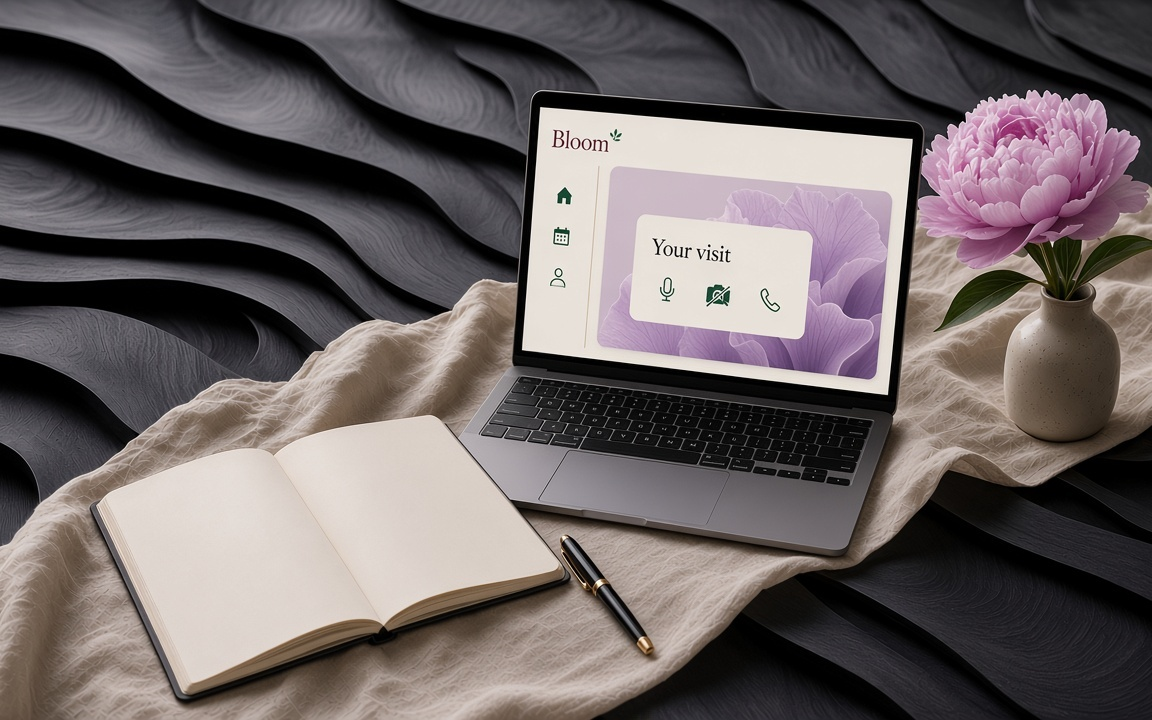
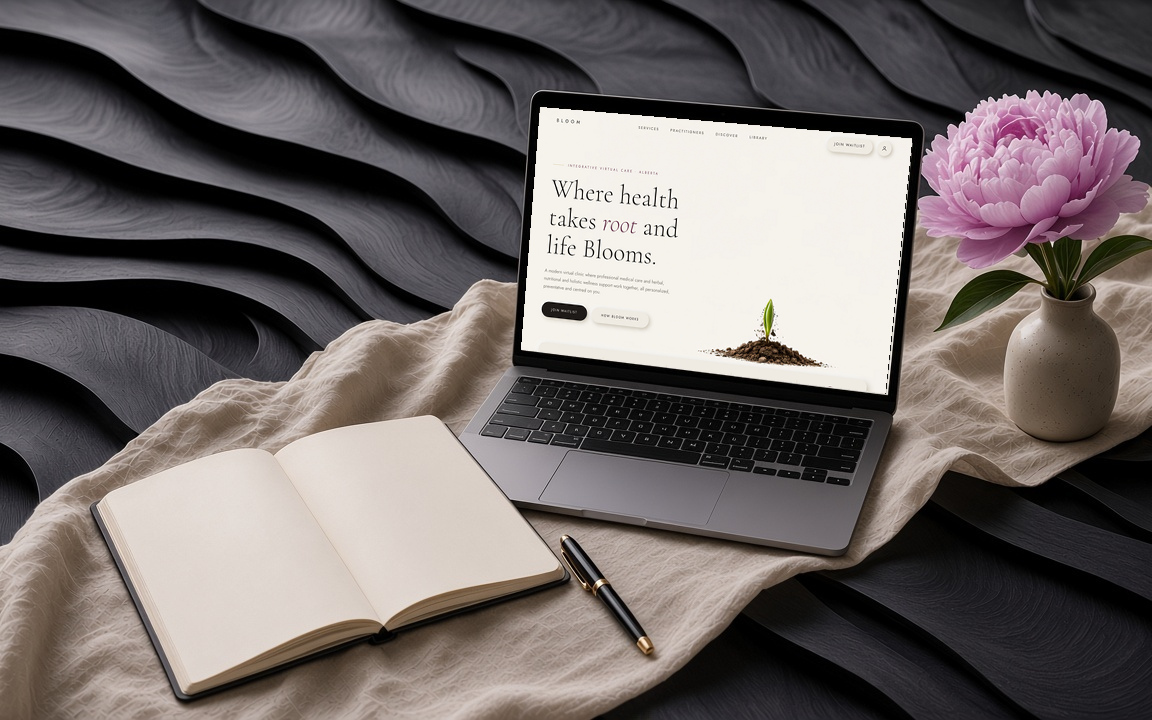
Replace the blood-work and first-visit pictures with the revised files.
The tubes are a little under half full. The laptop shows the Bloom homepage. Alt text matches those pictures.

Changed region(s): [[0.4688, 0.2139, 0.7812, 0.55], [0.4688, 0.1528, 0.5312, 0.2139], [0.7188, 0.1833, 0.75, 0.2139]]

diff --git a/index.html b/index.html
@@ -1319,8 +1319,8 @@ footer a:hover{color:var(--bone)}
     </div>
     <!-- Illustrative AI-generated imagery for the six Library articles, cropped from 16:9 to 16:10. Not a photograph of a patient, a practitioner, or a laboratory result. -->
 <div class="lib-grid">
-      <article class="neo res reveal"><div class="res-img" role="img" aria-label="An open blank notebook, a pen, and a laptop showing an illustrated Bloom visit screen, beside a pink flower in a vase" style="background-image:url('library/images/what-to-expect-at-your-first-visit.jpg')"></div><div class="res-top"><span class="pill pill-lilac">Bloom</span><span class="small">6 min read</span></div><h3><a href="/library/what-to-expect-at-your-first-visit.html">What to expect at your first visit</a></h3><p class="small">How an integrated visit works, from booking to your written plan.</p><a class="link" href="/library/what-to-expect-at-your-first-visit.html">Read</a></article>
-      <article class="neo res reveal"><div class="res-img" role="img" aria-label="Three collection tubes with a low level of dark red blood, lilac and burgundy caps, on ivory linen beside a pink flower and an amber bottle" style="background-image:url('library/images/understanding-your-blood-work.jpg')"></div><div class="res-top"><span class="pill pill-lilac">Guide</span><span class="small">7 min read</span></div><h3><a href="/library/understanding-your-blood-work.html">Understanding your blood work</a></h3><p class="small">What common lab markers measure, explained in plain language, plus questions to bring to your next visit. Your practitioner will always review your results with you.</p><a class="link" href="/library/understanding-your-blood-work.html">Read</a></article>
+      <article class="neo res reveal"><div class="res-img" role="img" aria-label="An open blank notebook, a pen, and a laptop displaying the Bloom homepage, beside a pink flower in a vase" style="background-image:url('library/images/what-to-expect-at-your-first-visit.jpg')"></div><div class="res-top"><span class="pill pill-lilac">Bloom</span><span class="small">6 min read</span></div><h3><a href="/library/what-to-expect-at-your-first-visit.html">What to expect at your first visit</a></h3><p class="small">How an integrated visit works, from booking to your written plan.</p><a class="link" href="/library/what-to-expect-at-your-first-visit.html">Read</a></article>
+      <article class="neo res reveal"><div class="res-img" role="img" aria-label="Three collection tubes a little under half full of dark red blood, with lilac and burgundy caps, on ivory linen beside a pink flower and an amber bottle" style="background-image:url('library/images/understanding-your-blood-work.jpg')"></div><div class="res-top"><span class="pill pill-lilac">Guide</span><span class="small">7 min read</span></div><h3><a href="/library/understanding-your-blood-work.html">Understanding your blood work</a></h3><p class="small">What common lab markers measure, explained in plain language, plus questions to bring to your next visit. Your practitioner will always review your results with you.</p><a class="link" href="/library/understanding-your-blood-work.html">Read</a></article>
       <article class="neo res reveal"><div class="res-img" role="img" aria-label="A ceramic cup of tea beside a closed book, a white flower and lilac petals on rumpled linen" style="background-image:url('library/images/an-evening-wind-down.jpg')"></div><div class="res-top"><span class="pill pill-lilac">Ritual</span><span class="small">6 min read</span></div><h3><a href="/library/an-evening-wind-down.html">An evening wind-down</a></h3><p class="small">A gentle routine for the hour before bed, from a warm cup of tea to screens off.</p><a class="link" href="/library/an-evening-wind-down.html">Read</a></article>
       <article class="neo res reveal"><div class="res-img" role="img" aria-label="A plate of grains, roasted vegetables, leafy greens and orange segments on linen, with a white flower beside it" style="background-image:url('library/images/balanced-eating-made-simple.jpg')"></div><div class="res-top"><span class="pill pill-lilac">Nutrition</span><span class="small">6 min read</span></div><h3><a href="/library/balanced-eating-made-simple.html">Balanced eating, made simple</a></h3><p class="small">Easy ways to build balanced meals around foods you already enjoy.</p><a class="link" href="/library/balanced-eating-made-simple.html">Read</a></article>
       <article class="neo res reveal"><div class="res-img" role="img" aria-label="A ceramic bowl of vegetable soup with a wooden spoon and a sprig of rosemary" style="background-image:url('library/images/warming-winter-soups.jpg')"></div><div class="res-top"><span class="pill pill-lilac">Recipe</span><span class="small">7 min read</span></div><h3><a href="/library/warming-winter-soups.html">Warming winter soups</a></h3><p class="small">Simple, comforting recipes for the colder months.</p><a class="link" href="/library/warming-winter-soups.html">Read</a></article>

diff --git a/library/what-to-expect-at-your-first-visit.html b/library/what-to-expect-at-your-first-visit.html
@@ -53,7 +53,7 @@
     </header>
     <!-- Illustrative AI-generated imagery for the six Library articles, cropped from 16:9 to 16:10. Not a photograph of a patient, a practitioner, or a laboratory result. -->
 <figure class="hero-fig">
-      <img src="images/what-to-expect-at-your-first-visit.jpg" alt="An open blank notebook, a pen, and a laptop showing an illustrated Bloom visit screen, beside a pink flower in a vase">
+      <img src="images/what-to-expect-at-your-first-visit.jpg" alt="An open blank notebook, a pen, and a laptop displaying the Bloom homepage, beside a pink flower in a vase">
       <figcaption>Illustrative AI-generated imagery.</figcaption>
     </figure>
     <div class="article-body">
@@ -157,7 +157,7 @@
       <h2>More from the library</h2>
       <div class="rel-grid">
       <a class="rel neo" href="understanding-your-blood-work.html">
-        <img src="images/understanding-your-blood-work.jpg" alt="Three collection tubes with a low level of dark red blood, lilac and burgundy caps, on ivory linen beside a pink flower and an amber bottle">
+        <img src="images/understanding-your-blood-work.jpg" alt="Three collection tubes a little under half full of dark red blood, with lilac and burgundy caps, on ivory linen beside a pink flower and an amber bottle">
         <div class="body">
           <span class="pill pill-lilac">Guide</span>
           <h3>Understanding your blood work</h3>

diff --git a/library/understanding-your-blood-work.html b/library/understanding-your-blood-work.html
@@ -53,7 +53,7 @@
     </header>
     <!-- Illustrative AI-generated imagery for the six Library articles, cropped from 16:9 to 16:10. Not a photograph of a patient, a practitioner, or a laboratory result. -->
 <figure class="hero-fig">
-      <img src="images/understanding-your-blood-work.jpg" alt="Three collection tubes with a low level of dark red blood, lilac and burgundy caps, on ivory linen beside a pink flower and an amber bottle">
+      <img src="images/understanding-your-blood-work.jpg" alt="Three collection tubes a little under half full of dark red blood, with lilac and burgundy caps, on ivory linen beside a pink flower and an amber bottle">
       <figcaption>Illustrative AI-generated imagery.</figcaption>
     </figure>
     <div class="article-body">
@@ -183,7 +183,7 @@
           </div>
       </a>
       <a class="rel neo" href="what-to-expect-at-your-first-visit.html">
-        <img src="images/what-to-expect-at-your-first-visit.jpg" alt="An open blank notebook, a pen, and a laptop showing an illustrated Bloom visit screen, beside a pink flower in a vase">
+        <img src="images/what-to-expect-at-your-first-visit.jpg" alt="An open blank notebook, a pen, and a laptop displaying the Bloom homepage, beside a pink flower in a vase">
         <div class="body">
           <span class="pill pill-lilac">Bloom</span>
           <h3>What to expect at your first visit</h3>

diff --git a/library/an-evening-wind-down.html b/library/an-evening-wind-down.html
@@ -139,7 +139,7 @@
       <h2>More from the library</h2>
       <div class="rel-grid">
       <a class="rel neo" href="understanding-your-blood-work.html">
-        <img src="images/understanding-your-blood-work.jpg" alt="Three collection tubes with a low level of dark red blood, lilac and burgundy caps, on ivory linen beside a pink flower and an amber bottle">
+        <img src="images/understanding-your-blood-work.jpg" alt="Three collection tubes a little under half full of dark red blood, with lilac and burgundy caps, on ivory linen beside a pink flower and an amber bottle">
         <div class="body">
           <span class="pill pill-lilac">Guide</span>
           <h3>Understanding your blood work</h3>
@@ -157,7 +157,7 @@
           </div>
       </a>
       <a class="rel neo" href="what-to-expect-at-your-first-visit.html">
-        <img src="images/what-to-expect-at-your-first-visit.jpg" alt="An open blank notebook, a pen, and a laptop showing an illustrated Bloom visit screen, beside a pink flower in a vase">
+        <img src="images/what-to-expect-at-your-first-visit.jpg" alt="An open blank notebook, a pen, and a laptop displaying the Bloom homepage, beside a pink flower in a vase">
         <div class="body">
           <span class="pill pill-lilac">Bloom</span>
           <h3>What to expect at your first visit</h3>

diff --git a/library/balanced-eating-made-simple.html b/library/balanced-eating-made-simple.html
@@ -143,7 +143,7 @@
       <h2>More from the library</h2>
       <div class="rel-grid">
       <a class="rel neo" href="understanding-your-blood-work.html">
-        <img src="images/understanding-your-blood-work.jpg" alt="Three collection tubes with a low level of dark red blood, lilac and burgundy caps, on ivory linen beside a pink flower and an amber bottle">
+        <img src="images/understanding-your-blood-work.jpg" alt="Three collection tubes a little under half full of dark red blood, with lilac and burgundy caps, on ivory linen beside a pink flower and an amber bottle">
         <div class="body">
           <span class="pill pill-lilac">Guide</span>
           <h3>Understanding your blood work</h3>
@@ -161,7 +161,7 @@
         </div>
       </a>
       <a class="rel neo" href="what-to-expect-at-your-first-visit.html">
-        <img src="images/what-to-expect-at-your-first-visit.jpg" alt="An open blank notebook, a pen, and a laptop showing an illustrated Bloom visit screen, beside a pink flower in a vase">
+        <img src="images/what-to-expect-at-your-first-visit.jpg" alt="An open blank notebook, a pen, and a laptop displaying the Bloom homepage, beside a pink flower in a vase">
         <div class="body">
           <span class="pill pill-lilac">Bloom</span>
           <h3>What to expect at your first visit</h3>

diff --git a/library/hydration-made-easy.html b/library/hydration-made-easy.html
@@ -149,7 +149,7 @@
       <h2>More from the library</h2>
       <div class="rel-grid">
       <a class="rel neo" href="understanding-your-blood-work.html">
-        <img src="images/understanding-your-blood-work.jpg" alt="Three collection tubes with a low level of dark red blood, lilac and burgundy caps, on ivory linen beside a pink flower and an amber bottle">
+        <img src="images/understanding-your-blood-work.jpg" alt="Three collection tubes a little under half full of dark red blood, with lilac and burgundy caps, on ivory linen beside a pink flower and an amber bottle">
         <div class="body">
           <span class="pill pill-lilac">Guide</span>
           <h3>Understanding your blood work</h3>

diff --git a/library/warming-winter-soups.html b/library/warming-winter-soups.html
@@ -217,7 +217,7 @@
       <h2>More from the library</h2>
       <div class="rel-grid">
       <a class="rel neo" href="understanding-your-blood-work.html">
-        <img src="images/understanding-your-blood-work.jpg" alt="Three collection tubes with a low level of dark red blood, lilac and burgundy caps, on ivory linen beside a pink flower and an amber bottle">
+        <img src="images/understanding-your-blood-work.jpg" alt="Three collection tubes a little under half full of dark red blood, with lilac and burgundy caps, on ivory linen beside a pink flower and an amber bottle">
         <div class="body">
           <span class="pill pill-lilac">Guide</span>
           <h3>Understanding your blood work</h3>
